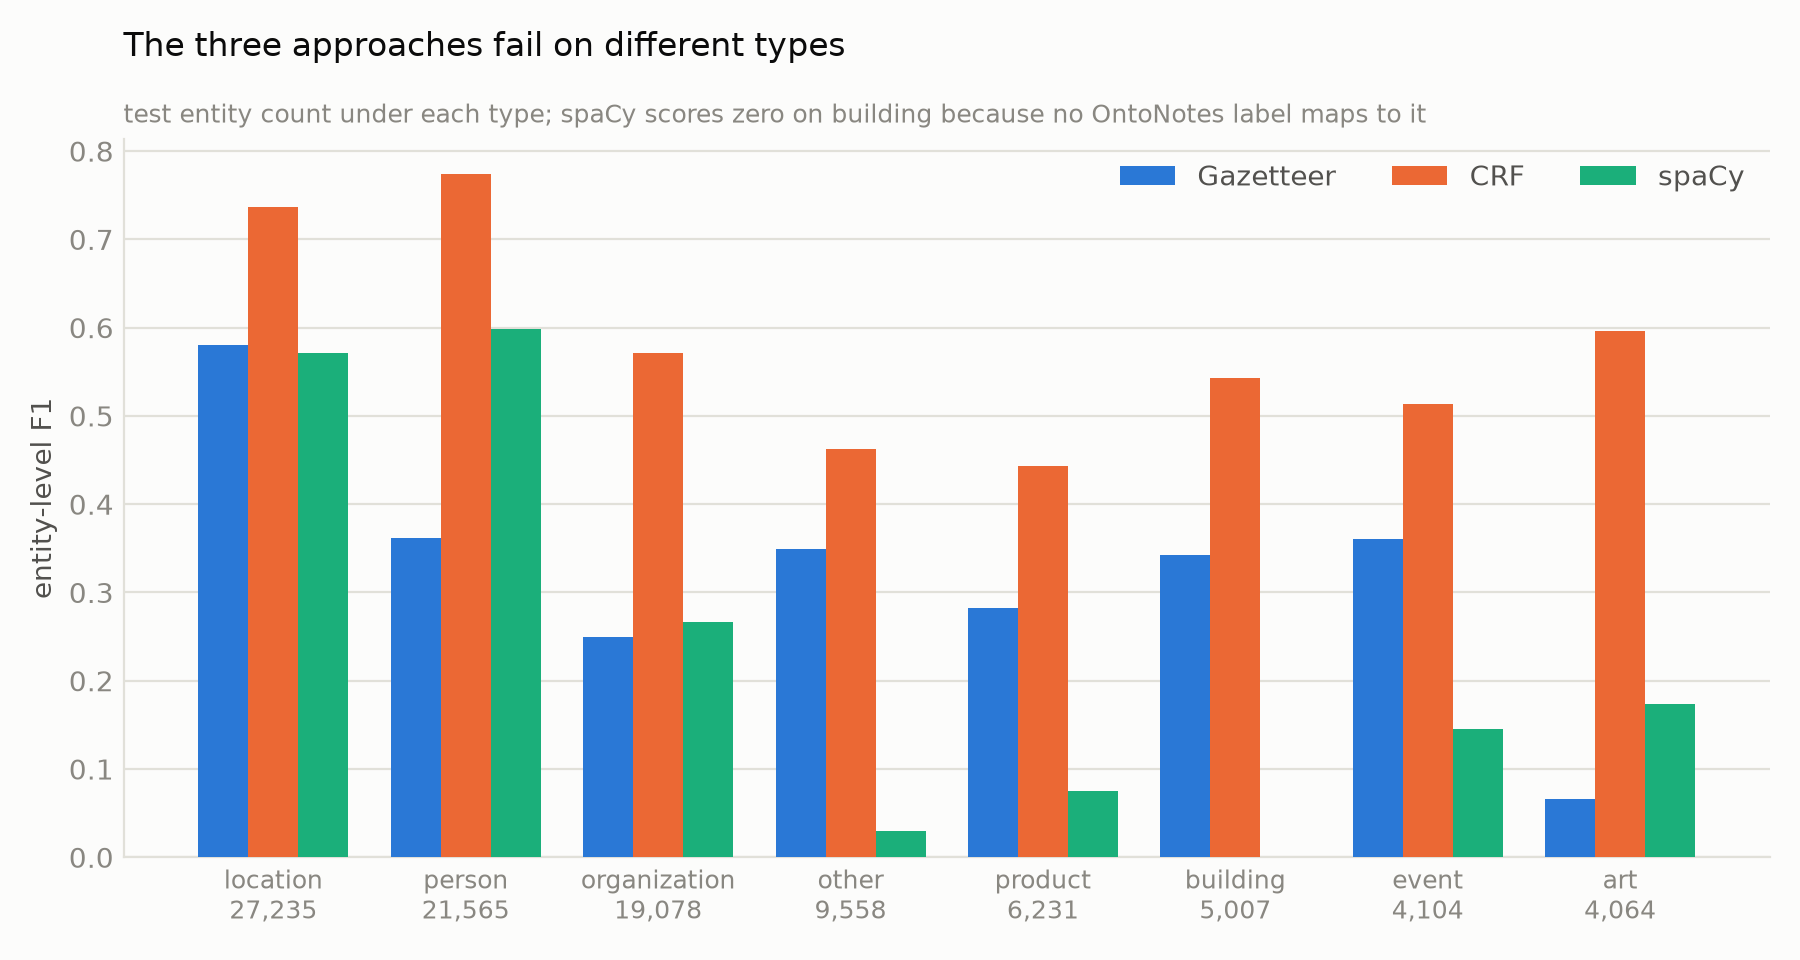
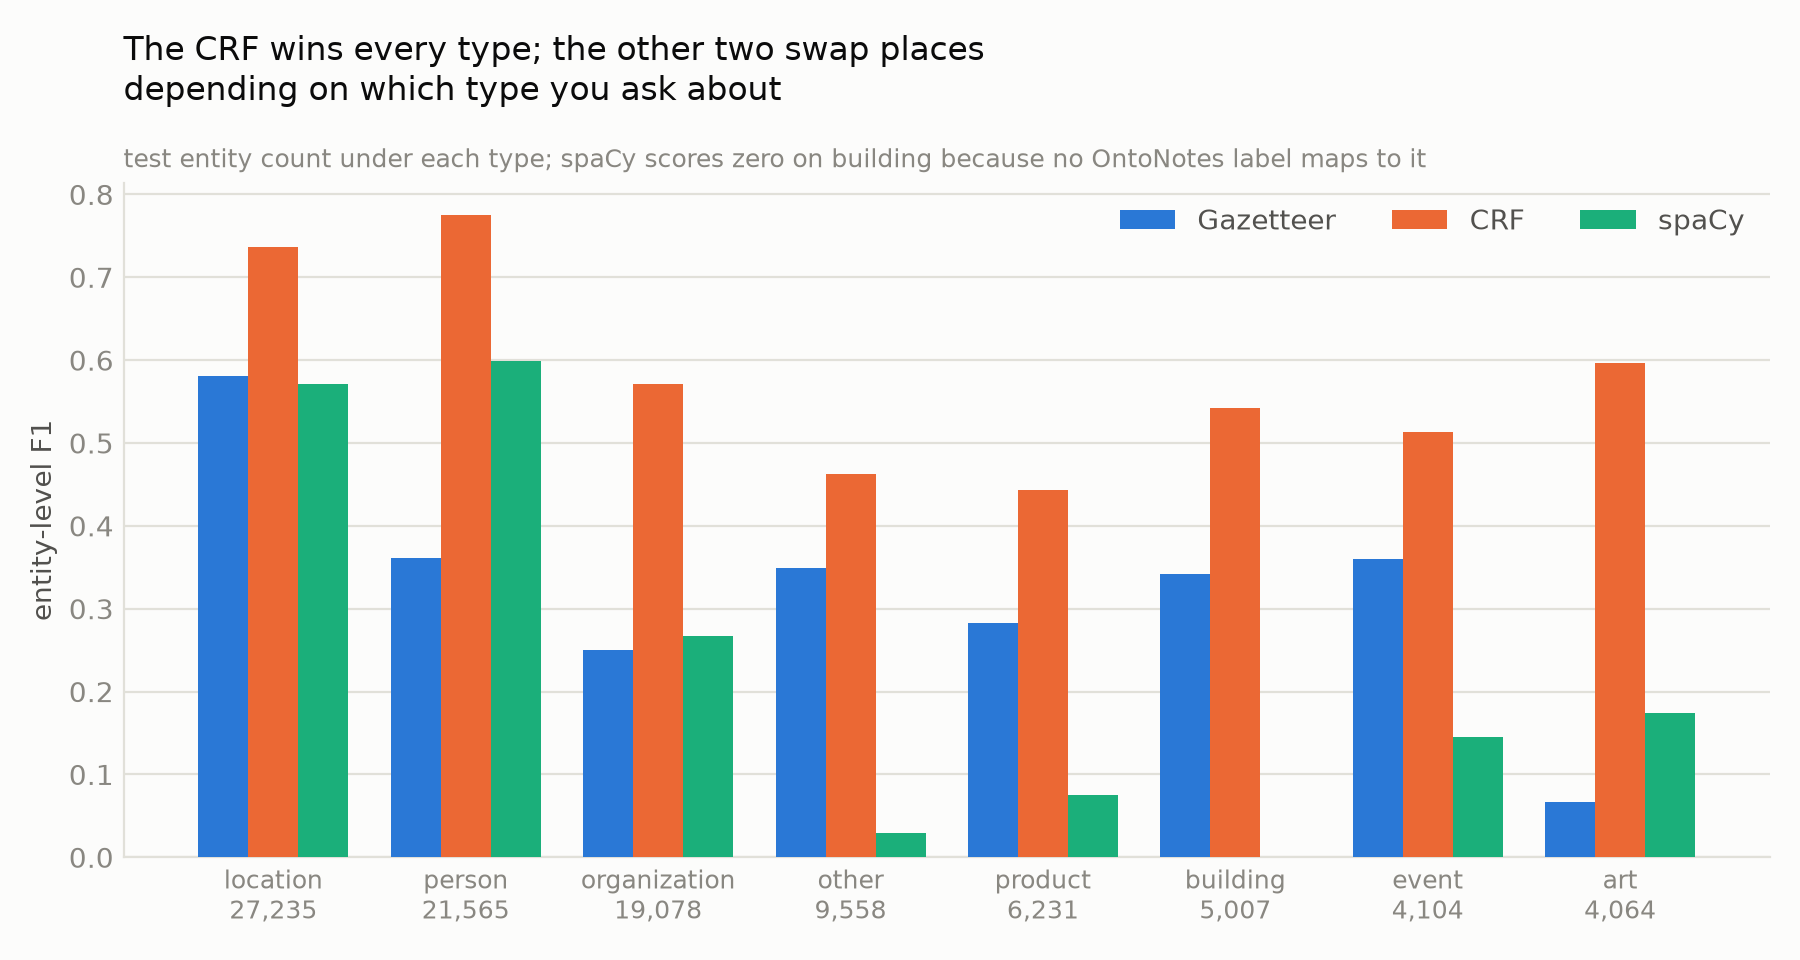
Use real examples from our own gazetteer, and fix three figure titles
The reports illustrated the ordinary-words problem with "It" and "Yesterday",
which are not actually in the gazetteer we built. Checked what is: Today, Why
and Hello are all entered as art, which makes the same point with words a
listener can verify from the repo.

The figure titles had drifted from what the figures show - one claimed no
approach passes 0.5 when the CRF reaches 0.650, and one claimed most errors are
entities the model never saw when missed is the smallest error category for
every approach.

diff --git a/scripts/approach_gazetteer.py b/scripts/approach_gazetteer.py
@@ -106,7 +106,7 @@ def main() -> None:
     say("[0] CHOOSING THE ONE PARAMETER, ON VALIDATION")
     say("    min_count is how many times a name must appear in training before it")
     say("    is trusted. At 1, every one-off name enters the list, including words")
-    say("    that happen to be song titles ('It', 'Yesterday'), and they then match")
+    say("    that happen to be song titles ('Today', 'Hello'), and they then match")
     say("    everywhere. Raising it trades recall for precision.")
     say()
     say("    Test is not touched here. The value is chosen on validation and used")
@@ -205,8 +205,8 @@ def main() -> None:
         say("    supposed to do, and it is the most interesting thing in this")
         say("    report. The cause is in [2]: a gazetteer built from real text")
         say("    contains ordinary words that happen to be names of songs, films")
-        say("    and books. Once 'It' is in the list as an art entity it matches")
-        say("    every occurrence of the pronoun.")
+        say("    and books. In ours, 'Today', 'Why' and 'Hello' are all entered")
+        say("    as art, so they now match every ordinary use of those words.")
         worst = max(result["per_type"].items(), key=lambda kv: kv[1]["fp"])
         say(f"    Worst offender: {worst[0]} with {worst[1]['fp']:,} false "
             f"positives against {worst[1]['tp']:,} correct.")

diff --git a/scripts/make_figures.py b/scripts/make_figures.py
@@ -104,7 +104,7 @@ def fig_per_type(data: dict) -> None:
     labels = [f"{t}\n{data[names[0]]['support'][t]:,}" for t in types]
     ax.set_xticks(x, labels, fontsize=9)
     ax.set_ylabel("entity-level F1")
-    ax.set_title("The three approaches fail on different types",
+    ax.set_title("The CRF wins every type; the other two swap places\ndepending on which type you ask about",
                  fontsize=12, loc="left", pad=30)
     ax.text(0, 1.015, "test entity count under each type; spaCy scores zero on "
                       "building because no OntoNotes label maps to it",

diff --git a/docs/PRESENTATION_PLAN.md b/docs/PRESENTATION_PLAN.md
@@ -387,8 +387,8 @@ copied from that file after the final run.
 
 - The CRF wins every type — but *how far* it wins varies enormously
 - spaCy's **0.000 on building is structural**, not a failure of the model
-- The gazetteer's **0.066 on art** is the ordinary-words problem: *It*,
-  *Yesterday* and *Tonight* are all song titles
+- The gazetteer's **0.066 on art** is the ordinary-words problem: *Today*,
+  *Why* and *Hello* are all in its list as `art`, so they match everywhere
 
 ### Slide C: "The errors, categorised"
 
@@ -439,8 +439,10 @@ copied from that file after the final run.
 >
 > The row that surprised us is "spurious" for the gazetteer: ninety-five per
 > cent. It predicts almost as many entities that are not there as there are real
-> entities in the whole test set. That is the ordinary-words problem — once "It"
-> is in the dictionary as a song title, it matches every pronoun.
+> entities in the whole test set. That is the ordinary-words problem — "Today",
+> "Why" and "Hello" are all in its list as works of art, because somewhere in the
+> training data they were song titles. Now they match every ordinary use of those
+> words.
 >
 > And for the CRF, most mistakes are entities it *did* find and then labelled
 > wrongly — fifteen per cent — rather than entities it missed, which is ten per

diff --git a/docs/PARAMETERS_AND_WHY.md b/docs/PARAMETERS_AND_WHY.md
@@ -93,9 +93,10 @@ So the subsample is reproducible. Any fixed number would do; 42 is convention.
 **Why is recall higher than precision? That is backwards for a dictionary.**
 This is the most interesting thing in that report and worth volunteering. A
 gazetteer built from real text contains ordinary words that happen to be titles
-of songs, films and books. Once *It* is in the list as an `art` entity, it
-matches every occurrence of the pronoun. That is why `art` has huge false
-positives. A hand-curated gazetteer would behave the classic way; one learned
+of songs, films and books. *Today*, *Why* and *Hello* are all in ours as `art`,
+so they now match every ordinary use of those words. That is why `art` has huge
+false positives - 0.066 F1 - and why the gazetteer predicts 92,139 spurious
+entities against 96,842 real ones. A hand-curated gazetteer would behave the classic way; one learned
 from a corpus does not.
 
 **Why didn't raising `min_count` fix that?**
